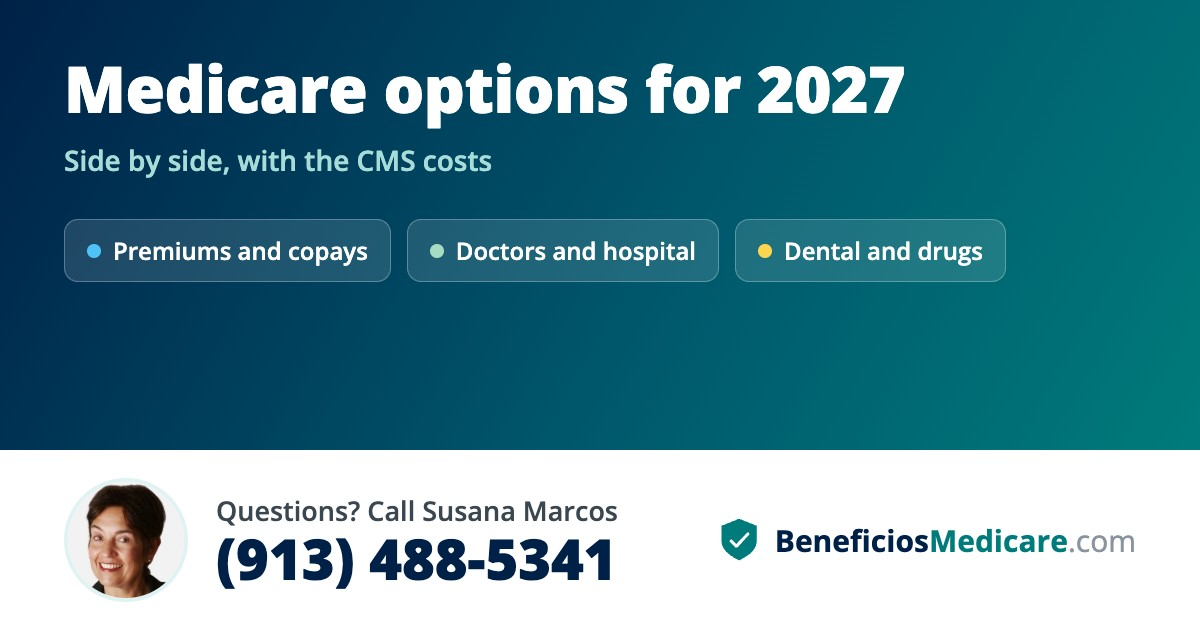
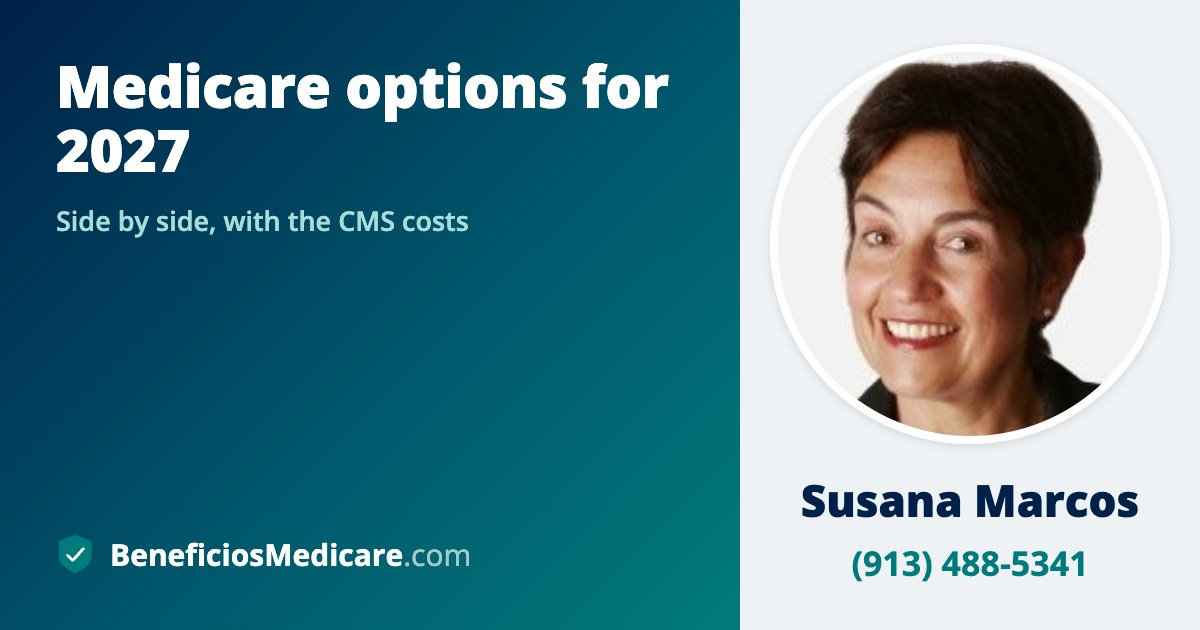
T-107 (3/4) agent-photo placement, T-105 (6) bigger Susana link preview, T-105 (9) share-what-changed
T-107: list screen gets its own slim agent row (agentSlimRow); plan-detail, Mi-plan-de-hoy search
and results screens get the 40px Volver-row photo (agentRow); Compare screen's Volver row drops its
photo whenever the suggestion box already shows one, so no screen ever shows the agent's face twice.

T-105 (6): og-opciones-susana-es/en.jpg rebuilt at the site's own brand-panel layout (teal panel +
headline left, photo panel right) instead of the old 124px bottom bar, her photo circle at 400px
(~60% of 630px) per AB's size test; Alejandra's own og-opciones-alejandra-*.jpg is untouched.

T-105 (9): "Share what's changing" button on the 2026-vs-2027 block (mp26v27Block, shown on both
the Mi-plan-de-hoy summary and the plan-detail screen) opens the existing share sheet scoped to
just that plan via a new openShare(ids) override, tagged ?chg=1 so the link preview title reads
"Lo que cambia en su plan en 2027" / "What changes in your plan in 2027" instead of "N options".
Simplified from the full ticket text (flagged, not guessed past): the shared page still only reads
2027 CMS data, so it shows the existing single-plan comparison rather than a dedicated 2026-column
view, and the link still carries the exact ZIP (the Function resolves state from it) rather than
state-only.

Gate unchanged: 1 error / 24 warnings (same pre-existing social/bridge.html finding).

diff --git a/widget-v4.html b/widget-v4.html
@@ -119,6 +119,9 @@ body.host-next #wb .btn-p{display:none!important}
 .bkrow .btn-back{margin-bottom:0}
 /* T-107 (3-REVISED): the agent's photo, right end of the Volver row, no extra height. */
 .volver-ph{width:40px;height:40px;border-radius:50%;object-fit:cover;display:block;flex:0 0 40px}
+/* T-107 (3): the list's own slim agent row, under the title/ZIP line, above the filter chips. */
+.aslim{display:flex;align-items:center;gap:8px;margin:8px 0 10px;font-size:14px;font-weight:600;color:#3a4650}
+.aslim img{width:44px;height:44px;border-radius:50%;object-fit:cover;flex:0 0 44px}
 .btn-ghost{background:none;border:none;color:#1a73e8;font-size:14px;font-weight:500;cursor:pointer;font-family:inherit;padding:10px 0;text-decoration:none;min-height:44px}
 .btn-remind{width:100%;padding:14px;background:var(--lt-blue);color:var(--blue);border:2px solid var(--lt-blue);border-radius:var(--radius);font-size:16px;font-weight:600;cursor:pointer;font-family:inherit;transition:all .2s;margin-top:8px;min-height:50px}
 .btn-remind:hover{border-color:var(--blue)}
@@ -714,6 +717,7 @@ body.host-cbar .cbar{display:none!important}
    is --mint, the gold chip and its cream line are the AEP strip's yellow (js/date-strip.js), up/down
    are the question screen's own red and green families. */
 .mptop{display:flex;align-items:center;gap:12px;margin:0 0 6px}
+.mptop .mphl,.mptop .mpq{flex:1 1 auto}
 .mptop .btn-back{margin-bottom:0;flex:0 0 auto}
 .mpq{font-size:19px;line-height:1.22;font-weight:700;color:var(--cbar-ink);margin:0;text-align:left;text-wrap:balance}
 .mphint{font-size:14.5px;color:#4A5568;margin:0 0 8px;text-align:left;text-wrap:pretty}
@@ -2908,6 +2912,7 @@ function resultsHead(list){
         <button type="submit">${L('See','Ver')}</button>
       </form></div>
     <p class="zerr" id="zerr"></p>
+    ${agentSlimRow()}
     ${dualLine()}
     ${chipRow()}
     ${foPanel()}
@@ -3397,7 +3402,7 @@ function mpSearch(q){
 const MP_CARD='<svg viewBox="0 0 24 24"><rect x="3" y="5" width="18" height="13" rx="2"/><path d="M3 9.5h18M6.5 14h5"/></s'+'vg>';
 function flowMyPlan(){
   prog(55); _plansView=false; _pin='';
-  wb().innerHTML=`<div class="mptop">${bk()}<p class="mpq">${L('What plan do you have today?','¿Qué plan tiene hoy?')}</p></div>
+  wb().innerHTML=`<div class="mptop">${bk()}<p class="mpq">${L('What plan do you have today?','¿Qué plan tiene hoy?')}</p>${agentRow()}</div>
     <p class="mphint">${L('Type the plan name or the number on your plan&nbsp;card.','Escriba el nombre o el número de su tarjeta del&nbsp;plan.')}</p>
     <input id="mpin" class="mpfield" type="text" inputmode="search" enterkeyhint="search" autocomplete="off" autocapitalize="off" spellcheck="false"
       aria-label="${L('Your plan name or card number','Nombre del plan o número de tarjeta')}" aria-controls="mpsug" value="${esc(_mpQ)}"
@@ -3675,7 +3680,8 @@ function mp26v27Block(p26,p27){
       ${mdedRow}
       ${dedRow}
     </tbody></table>
-    ${mpWhatChanges(p26,p27)}`;
+    ${mpWhatChanges(p26,p27)}
+    <button class="mpall" onclick="openShare(['${esc(p27.id)}'])">${L('Share what’s changing','Compartir lo que cambia')} ›</button>`;
 }
 function mpOptCard(p,chipTxt,line,kind){
   // T-103 (3): kind = 'sim' (teal) or 'dif' (blue): the chip, its tint and the card's left edge
@@ -3700,7 +3706,7 @@ function flowMyPlanResults(){
   const n=(c.sim?1:0)+(c.diff?1:0), cty=esc(D.county||''), cnt=mpTodosCount();
   const title=n===2?L('Your current plan and 2&nbsp;options','Su actual y 2&nbsp;opciones')
              :(n===1?L('Your current plan and 1&nbsp;option','Su actual y 1&nbsp;opción'):L('Your current plan','Su plan actual'));
-  wb().innerHTML=`<div id="mpres"><div class="mptop">${bk()}<p class="mphl">${title}</p></div>
+  wb().innerHTML=`<div id="mpres"><div class="mptop">${bk()}<p class="mphl">${title}</p>${agentRow()}</div>
     <div class="rh mprh"><div class="zl" id="zl">${PIN}
       <span class="zv">${esc(D.zip||'')}</span>${cty?`<span class="zcty">· ${cty}</span>`:''}
       <button class="zc" onclick="zipEdit()" aria-label="${L('Change ZIP code','Cambiar código postal')}">${L('Change','Cambiar')}</button>
@@ -3853,6 +3859,14 @@ function confPhoto(a){return `<span class="ci2 ph"><img src="${esc(a.photo)}" al
    flagged rather than rushed, since that's exactly the crowded case the mock itself calls out as
    needing the fallback, and getting it wrong is a 375px-vs-320px regression risk on a live site. */
 function agentRow(){const a=agent();return `<img class="volver-ph" src="${esc(a.photo)}" alt="${esc(a.name)}" width="40" height="40">`;}
+/* T-107 (3) (AB 15:55): the list's own agent presence -- a slim row under the title/ZIP line, 44px
+   photo + "Su asesora: <name>", name nowrap, no phone and no button (the call bar after 4s, T-104,
+   does that job). Per (4), this is the list screen's ONE photo -- it gets no Volver-row photo too. */
+function agentSlimRow(){
+  const a=agent();
+  return `<div class="aslim" data-agent="${a.key}"><img src="${esc(a.photo)}" alt="" width="44" height="44">
+    <span>${L('Your advisor:','Su asesora:')} <span class="nw">${esc(a.name)}</span></span></div>`;
+}
 function agentFirst(a){return String(a.name).split(' ')[0];}
 function askLine(){
   const a=agent();   // T-102: same per-state agent as the suggestion card, not a hardcoded number
@@ -3968,9 +3982,22 @@ function shareURL(){
   const mc=leadSite()==='medicare-california';
   const q=[]; if(lang==='en'&&!mc) q.push('lang=en'); if(lang==='es'&&mc) q.push('lang=es');
   if(D.priority) q.push('r='+encodeURIComponent(D.priority));
-  // T-105 (1)(5): from Mi plan de hoy, which column is their current plan -- a plan ID, nothing about them
-  const hoy=(_cmpFrom==='myplan'&&_mpCtx&&_mpCtx.cur27)?plans.find(p=>p.id===_mpCtx.cur27.id):null;
+  // T-105 (1)(5): from Mi plan de hoy, which column is their current plan -- a plan ID, nothing about them.
+  // Also true for the T-105(9) "Compartir lo que cambia" button, which shares straight from the mpCurCard
+  // screen -- before Compare has ever been opened, so _cmpFrom might not say 'myplan' yet even though
+  // _mpCtx already holds the right current-plan context.
+  const hoy=((_cmpFrom==='myplan'||_shareIds)&&_mpCtx&&_mpCtx.cur27)?plans.find(p=>p.id===_mpCtx.cur27.id):null;
   if(hoy) q.push('hoy='+encodeURIComponent(planIdRaw(hoy)));
+  // T-105 (9): "Compartir lo que cambia" shares this one plan via the normal shared-page mechanics
+  // (same page, same agent branding by state) with a flag so the link preview can say "what
+  // changes" instead of "N options" -- no new rendering path, no 2026 figures on the shared page
+  // (it only ever reads 2027 CMS data); the link itself and the recipient's view are the existing
+  // single-plan share, tagged accordingly. Reported as a simplification, not the full ticket text.
+  // NOTE (simplification, flagged not guessed-past): the ticket asks this link to carry "no ZIP
+  // beyond the state" -- it still carries the exact zip= below, reused from the normal share path,
+  // because the Function resolves state FROM that zip (zip_index.js) and swapping it for a bare
+  // state code needs a second lookup path there that this pass did not build. Reported to AB.
+  if(_shareIds) q.push('chg=1');
   if(SHARE_READABLE_PATH){
     const word=mc?'options':'opciones';
     return `${shareOrigin()}/${word}/${encodeURIComponent(D.zip||'')}/${plans.map(planIdRaw).join('/')}${q.length?'?'+q.join('&'):''}`;
@@ -3980,12 +4007,19 @@ function shareURL(){
   q.unshift('zip='+encodeURIComponent(D.zip||''));
   return `${shareOrigin()}/${file}?${q.join('&')}`;
 }
-function sharePlans(){return selPlans.map(id=>PLANS.find(p=>p.id===id)).filter(p=>p&&!p._medigap).slice(0,3);}
+// T-105 (9): "Compartir lo que cambia" on the 2026-vs-2027 block opens this same sheet for just that
+// one plan, without touching selPlans (the Compare bar's own ticks must survive opening and closing
+// the sheet unchanged). _shareIds overrides the normal selPlans source for one open; openShare clears
+// it back to null on close so the very next ordinary Compartir tap reads selPlans again.
+let _shareIds=null;
+function sharePlans(){return (_shareIds||selPlans).map(id=>PLANS.find(p=>p.id===id)).filter(p=>p&&!p._medigap).slice(0,3);}
 function shareMsg(){
   // T-102: the questions go to the agent for this ZIP's state, by name, on her own number.
   // T-105 (AB 2026-10-18 12:55): the link first, then the agent's signature block (shareSig).
   const n=sharePlans().length, z=String(D.zip||'').replace(/\D/g,''), a=agent();
-  return L(`${n} Medicare options for 2027, ZIP ${z}:`,`${n} opciones de Medicare 2027 para el ZIP ${z}:`)+'\n'+shareURL()+'\n\n'+shareSig(a);
+  const intro=_shareIds?L(`What's changing in your plan for ${planYear()}, ZIP ${z}:`,`Lo que cambia en su plan para ${planYear()}, ZIP ${z}:`)
+                       :L(`${n} Medicare options for 2027, ZIP ${z}:`,`${n} opciones de Medicare 2027 para el ZIP ${z}:`);
+  return intro+'\n'+shareURL()+'\n\n'+shareSig(a);
 }
 /* T-105 (AB 2026-10-18 12:55): the signature on every text the share sheet sends (WhatsApp, Texto, Email),
    both agents, ES + EN, in this order and these words. No "con licencia" / "licensed", no bare website
@@ -4026,9 +4060,10 @@ function shareChannels(){
    large tiles side by side (the channels people actually tap -- WhatsApp, text, email), row 2 is
    two quieter outlined buttons (copy link, PDF). Same channels, same shareSend(), same tracking;
    only the layout changed. Mock: compartido-menos-es-mas, ronda-del-domingo-v2, section 4. */
-function openShare(){
+function openShare(ids){
+  _shareIds=ids||null;
   if(!sharePlans().length) return;
-  wEvt('share_open',{plans:sharePlans().length});
+  wEvt('share_open',{plans:sharePlans().length,mode:ids?'plan_change':'compare'});
   const tile=c=>`<button class="cht" onclick="shareSend('${c.k}')"><span class="ci ${c.ic}" aria-hidden="true"><svg viewBox="0 0 24 24">${SHARE_ICONS[c.ic]}</s`+`vg></span><span class="chtl">${c.lb}</span></button>`;
   const quiet=c=>`<button class="chq" onclick="shareSend('${c.k}')"><span class="ci ${c.ic}" aria-hidden="true"><svg viewBox="0 0 24 24">${SHARE_ICONS[c.ic]}</s`+`vg></span>${c.lb}</button>`;
   const chans=shareChannels(), tiles=chans.slice(0,3), quiets=chans.slice(3);
@@ -4047,6 +4082,7 @@ function openShare(){
 }
 function closeShare(){
   const el=document.getElementById('shwrap'); if(el){ clearTimeout(el._t); el.remove(); }
+  _shareIds=null;
   try{ if(window.self!==window.top) window.parent.postMessage({type:'widget-want-viewport',on:false},'*'); }catch(e){}
 }
 /* T-098. In the host page's iframe the sheet cannot find the screen on its own: there is no
@@ -4254,7 +4290,11 @@ function cmpParts(plans,ro){
   const foot=can?'':`<div class="cmp-foot">${sanct?`<p class="plan-flag warn">${L('One of these plans has a CMS sanction, see','Uno de estos planes tiene una sanción de CMS, consulte')} <a href="https://www.medicare.gov" target="_blank" rel="noopener">Medicare.gov</a></p>`:`<p class="plan-flag">${L('Information only','Solo información')}</p>`}</div>`;
   // T-105 (8): Volver alone on top (Comparar only); the suggestion box; "Mostrar diferencias" and its line
   // directly above the columns.
-  const top=`${ro?'':`<div class="cmptop">${bk()}${agentRow()}</div>`}
+  // T-107 (4) ("i don't want TWO pics"): the suggestion box (sugCard or askLine) already carries the
+  // agent's photo whenever it renders; the Volver row only gets one when NEITHER renders -- the one
+  // edge case where a priority answer is set but no suggestion plan was found, so the box is empty.
+  const hasSugBox=!!sug||!D.priority;
+  const top=`${ro?'':`<div class="cmptop">${bk()}${hasSugBox?'':agentRow()}</div>`}
     ${unlicensedNote()}
     ${sug?sugCard(sug,plans):(D.priority?'':askLine())}
     <div class="cmptog"><label class="tog"><input type="checkbox" onchange="cmpDiff(this)"> ${L('Show differences','Mostrar diferencias')}</label></div>

diff --git a/functions/opciones-compartidas.js b/functions/opciones-compartidas.js
@@ -86,7 +86,12 @@ export async function onRequestGet(context) {
     }
     const n = ids.length;
     const where = (county ? county + ', ' : '') + st;
-    const title = en
+    // T-105 (9): "Compartir lo que cambia" tags its link ?chg=1 so the preview says what it is,
+    // not "N options" -- the page and image are otherwise the same single-plan share.
+    const chg = url.searchParams.get('chg') === '1';
+    const title = chg
+      ? (en ? 'What changes in your plan in 2027' : 'Lo que cambia en su plan en 2027')
+      : en
       ? `${n} Medicare option${n === 1 ? '' : 's'} for 2027 in ${where}` + (names.length ? `: ${names.join(', ')}` : '')
       : `${n} ${n === 1 ? 'opción' : 'opciones'} de Medicare 2027 en ${where}` + (names.length ? `: ${names.join(', ')}` : '');
     // never "free" / "licensed" in a preview (the T-090 og rule site-check.py enforces on static pages)
